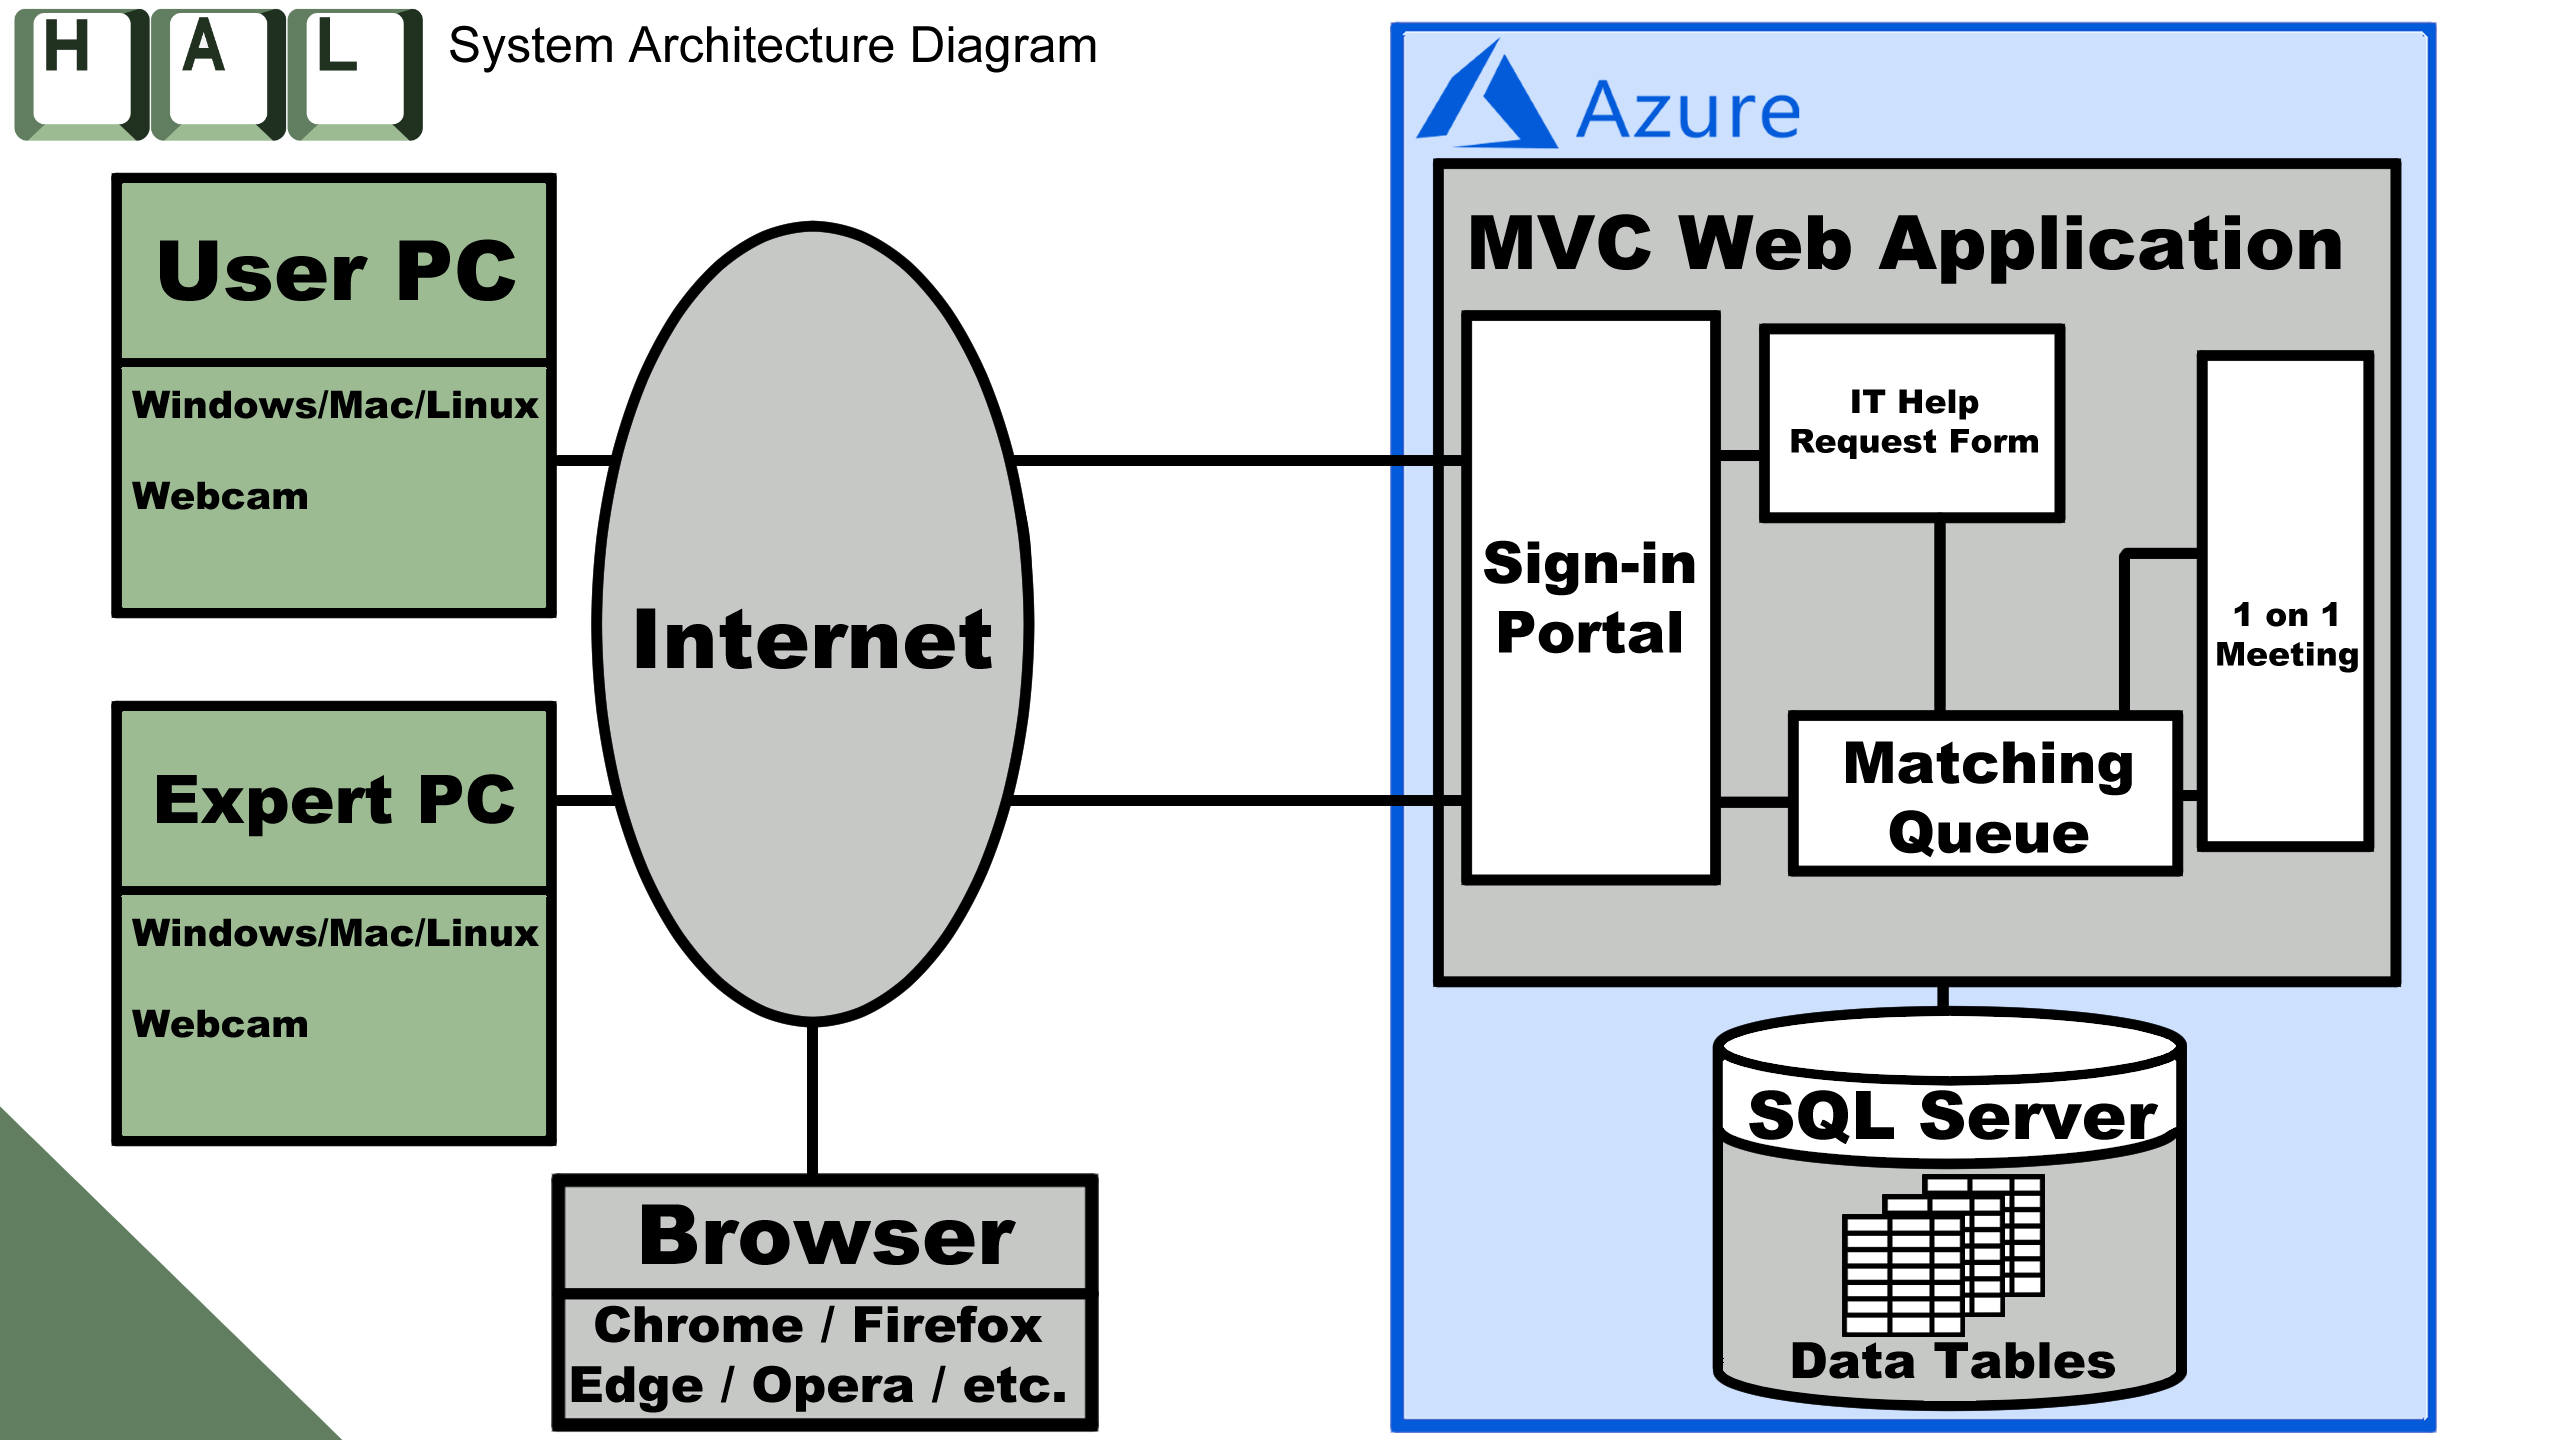
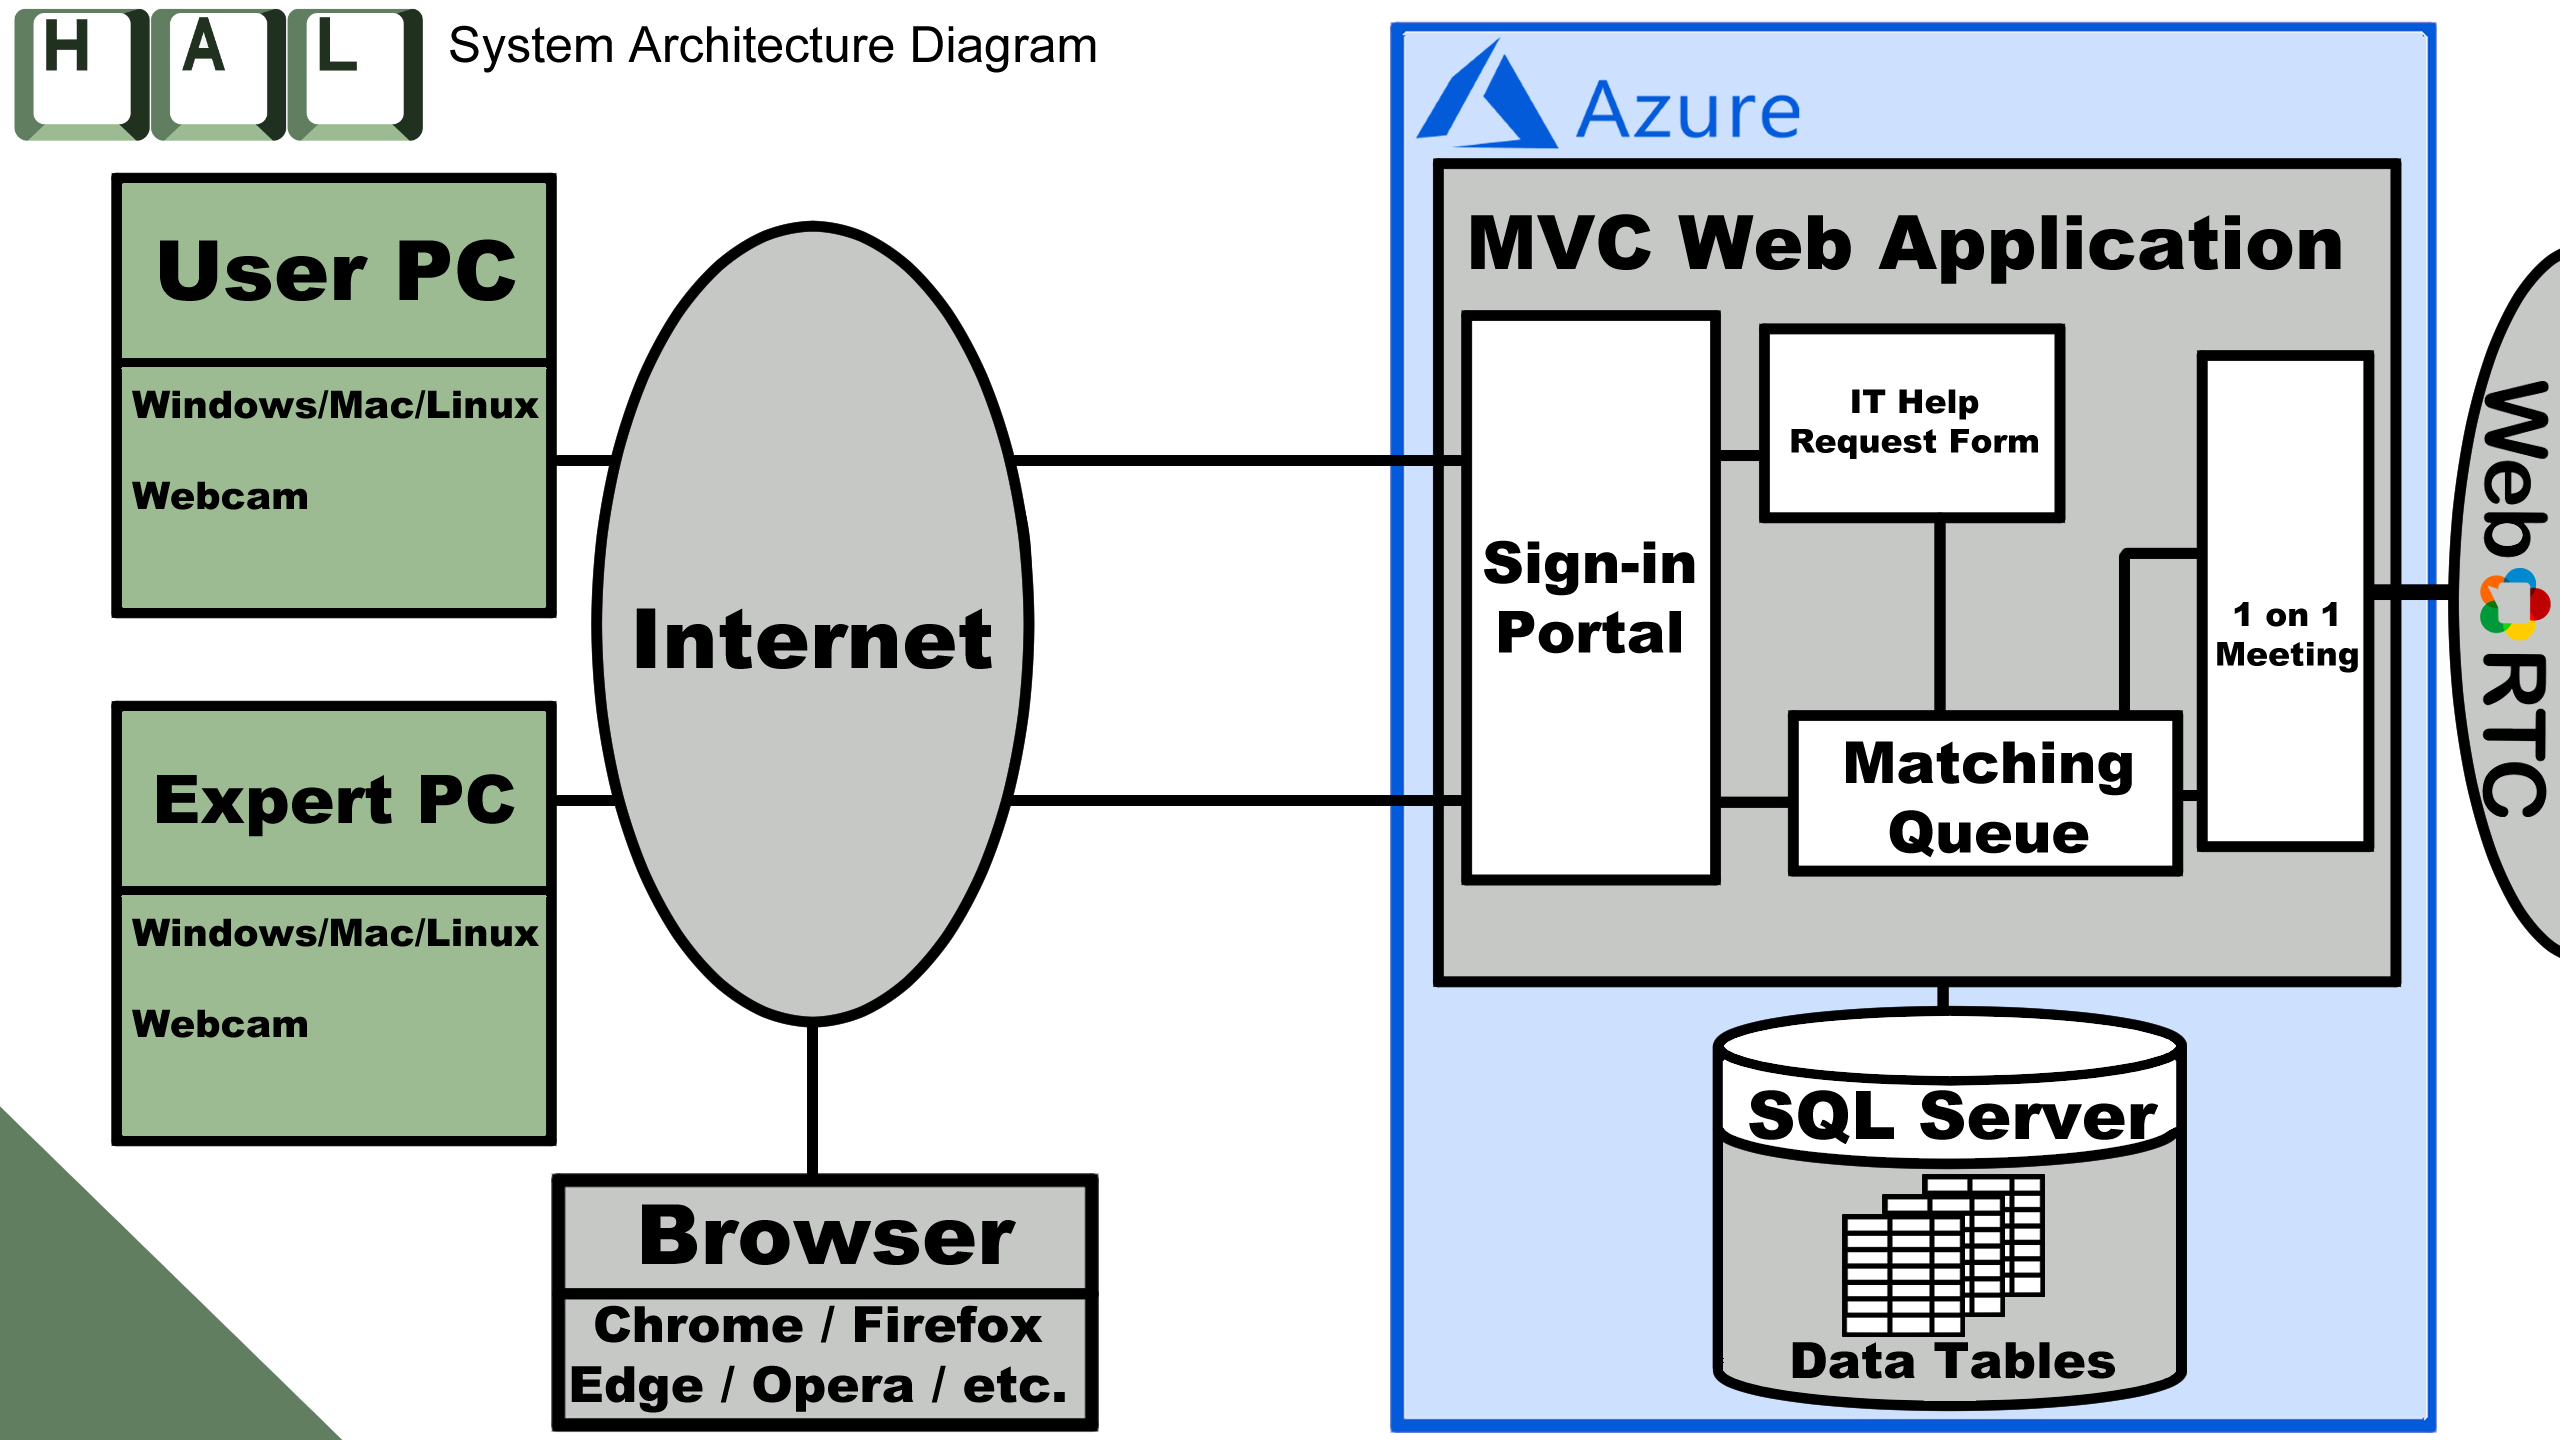
Change filesystem structure and improve architecture diagram

Changed region(s): [[0.9375, 0.1875, 1.0, 0.6562]]

diff --git a/Milestones/Milestone-4/Team Project Inception Phase II/Non-functional Requirements and Definitions.md b/Milestones/Milestone-4/Team Project Inception Phase II/Non-functional Requirements and Definitions.md
@@ -1,0 +1,29 @@
+Non-Functional Requirements
+==================================================
+
+1. General user and expert passwords themselves shall never be shown, nor stored on the web app or database.
+
+2. User details shall not be shared with 3rd parties.
+
+3. No one except for account owner shall make any changes or edits to an account.
+
+4. Within 10 seconds of submitting a request help form, a user shall be presented with feedback on the status of their request in the matchmaking system.
+
+5. Aggregate rating score for an expert shall not be visible to anyone besides the expert themself on their account page. 
+
+6. When a meeting begins between a user and expert, cameras and screenshare default to off, in order to protect the privacy of both parties.
+
+7. Users shall be required to submit email when signing up, in order to inform them in regards to site activity.  
+
+
+
+Definitions
+==================================================
+
+* Visitor		: Someone visiting the site or a registered user who is not signed-in.
+
+* User			: A registered user who is signed in to their account.
+
+* General User	: A user who signed in from the portal for requesting IT Help.
+
+* Expert		: A user who signed in from the portal for providing IT Help.
